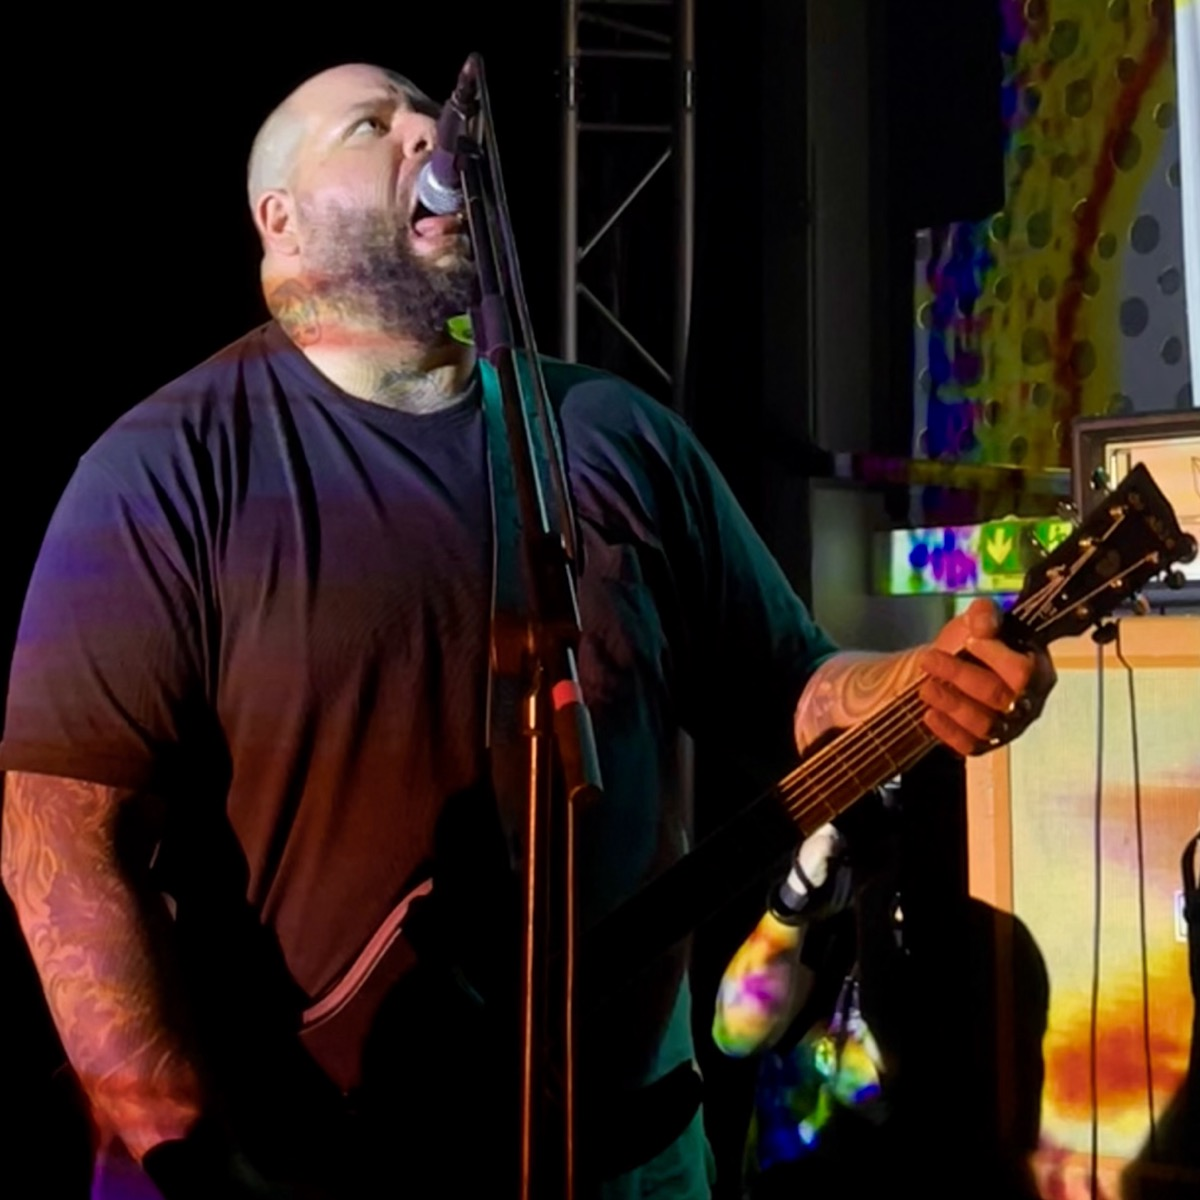
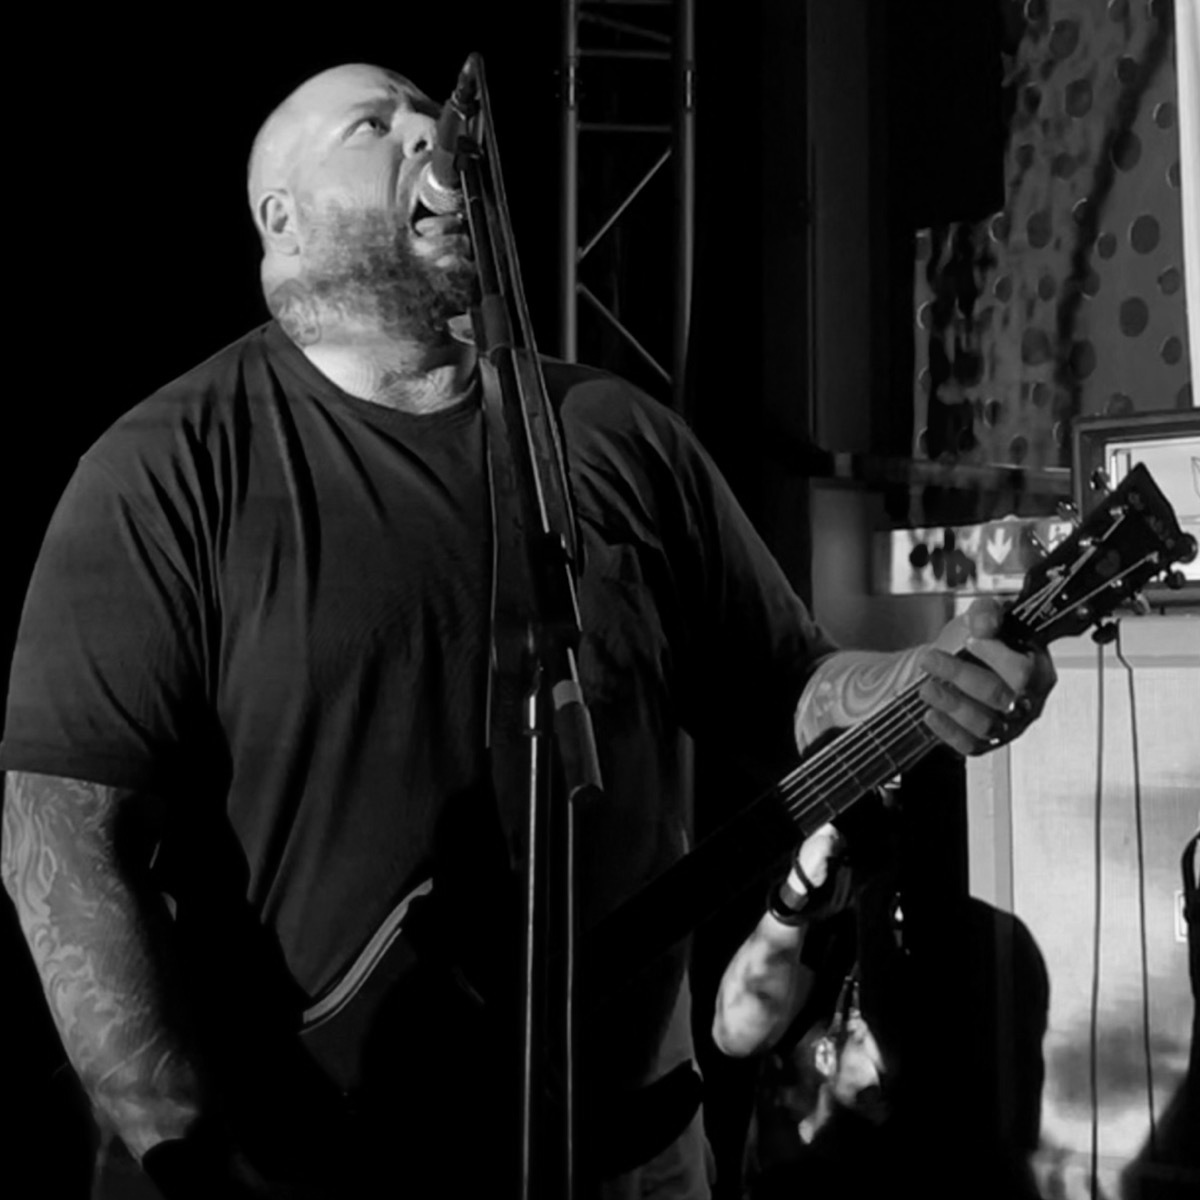
Update fonts, styling, notes, and feed

diff --git a/layouts/partials/custom_head.html b/layouts/partials/custom_head.html
@@ -1,8 +1,23 @@
 <style>
+@font-face {
+  font-family: 'JetBrains Mono';
+  src: url('/fonts/webfonts/JetBrainsMono-Regular.woff2') format('woff2');
+  font-weight: 400;
+  font-style: normal;
+  font-display: swap;
+}
+@font-face {
+  font-family: 'JetBrains Mono';
+  src: url('/fonts/webfonts/JetBrainsMono-Medium.woff2') format('woff2');
+  font-weight: 500;
+  font-style: normal;
+  font-display: swap;
+}
 html { overflow-y: scroll; }
 figure { text-align: center; }
 a.title { display: flex; align-items: center; gap: 0.5em; }
-.avatar { width: 2em; height: 2em; border-radius: 50%; }
+a.title h1 { font-family: 'JetBrains Mono', monospace; font-weight: 500; }
+.avatar { width: 2.5em; height: 2.5em; border-radius: 50%; }
 p.byline, time { font-family: monospace; font-style: normal; }
 .search-input { display: block; margin: 1em 0; background: #fff; color: #333; }
 body, main { background-color: #1a2c30; }

diff --git a/content/books/children-of-time.md b/content/books/children-of-time.md
@@ -13,4 +13,4 @@ Alternating chapters follow the cultural evolution of Portia labiata spiders ove
 
 ## Review
 
-If you are an arachnophobe, you should not read this book under any circumstance. I mean it. If that does not bother you, it is definitely a fascinating thought experiment of evolutionary pathways. For me the end – first contact – of 2 different species was a bit weak. 
+If you are an arachnophobe, you should not read this book under any circumstance. I mean it. If that does not bother you, it is definitely a fascinating thought experiment of evolutionary pathways. For me the end - first contact of 2 different species - was a bit weak.

diff --git a/content/notes/primitive-man/index.md b/content/notes/primitive-man/index.md
@@ -1,6 +1,6 @@
 ---
 date: 2026-05-06
-title: Primitive Man @ P8 Karlsruhe
+title: The face of DOOM
 tags: []
 ---
 